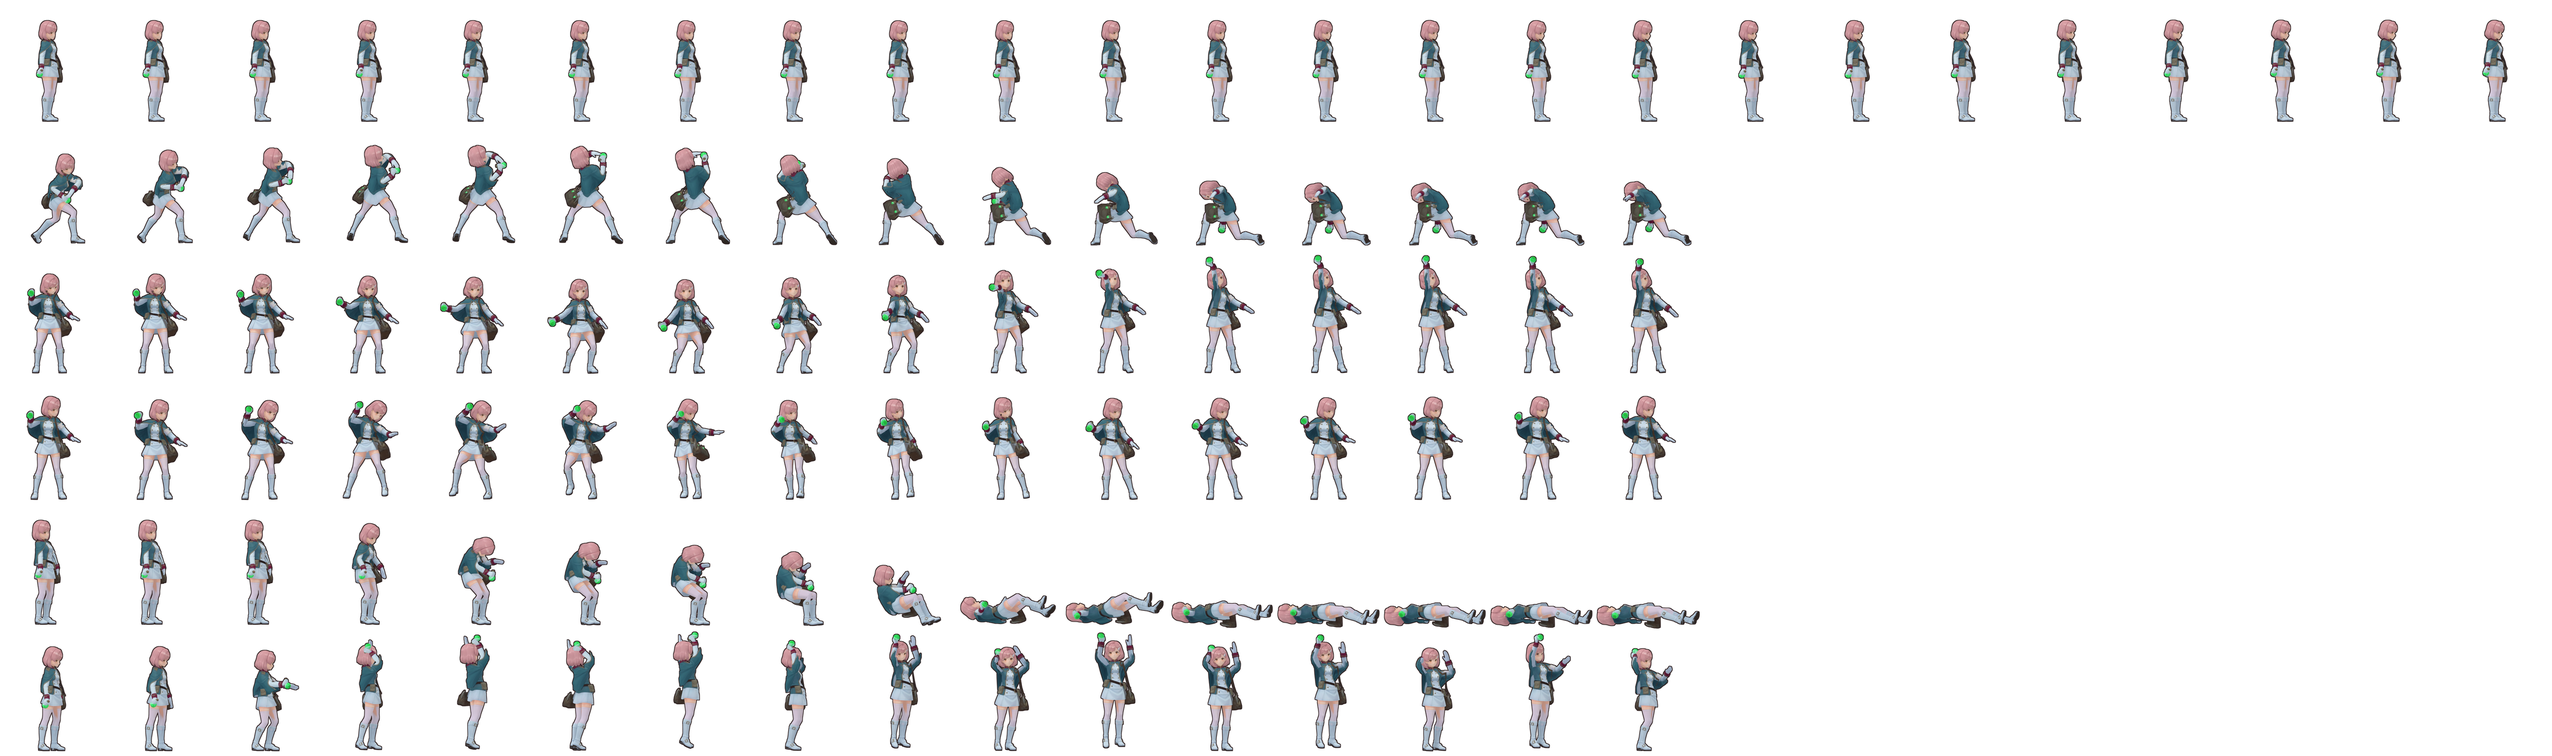
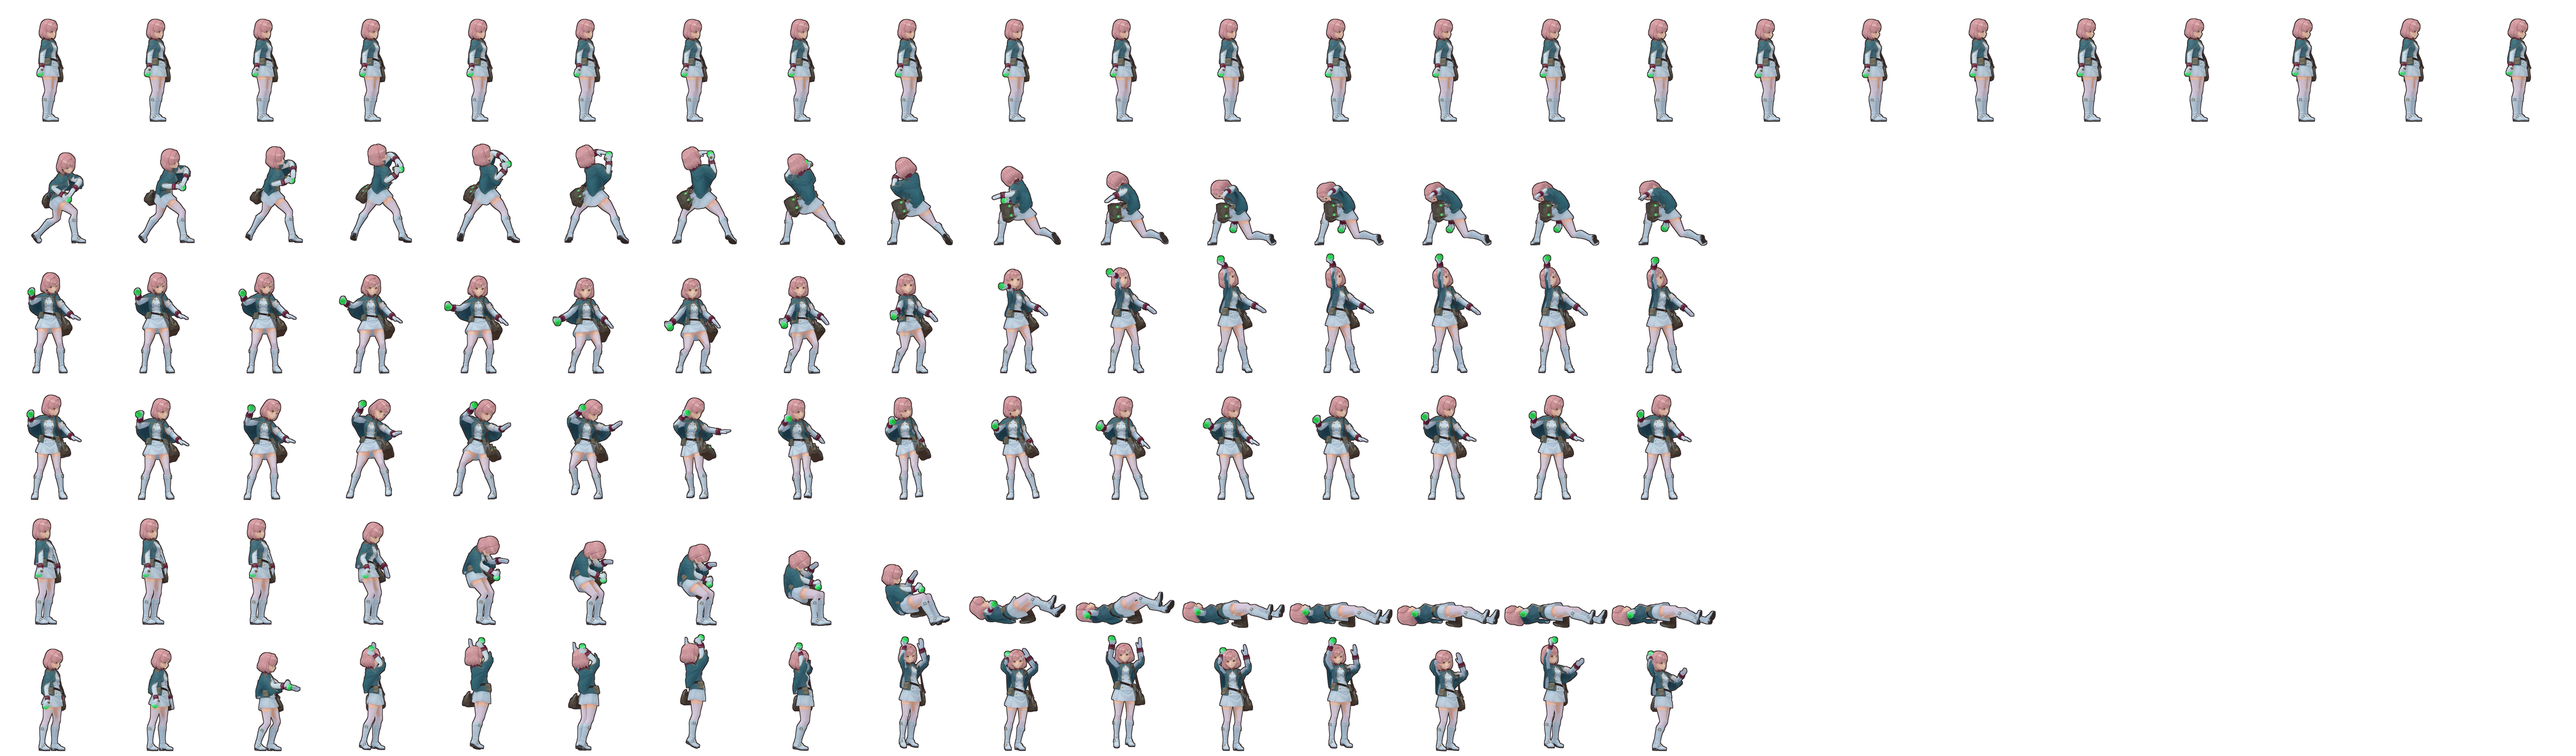
Бой: Рэн — анимированный спрайт из Meshy с двумя саблями
Модель по референсу, сабли — отдельная модель Meshy на костях кистей
(render_sprites.py: режим blade). Клипы: стойка, удар, заряженный удар,
удар по нему, смерть, победа. Клиент Meshy умеет движения Text-to-Motion
(m:<id>); зацикленные клипы играют с настоящей частотой (meta.json).

diff --git a/tools/meshy/render_sprites.py b/tools/meshy/render_sprites.py
@@ -61,7 +61,8 @@ POSES = {
 }
 # Лёгкое покачивание стойки по кадрам: кость → (амплитуда по X, по Y), фаза — доля клипа.
 SWAY = {"Hips": (0.025, 0.0), "Spine01": (-0.02, 0.015), "Head": (0.0, 0.02)}
-PROP_LENGTH = 0.36   # длина оружия, м (при росте модели ~1,6 м — стилизованно крупное)
+PROP_LENGTH = 0.36   # длина пистоля, м (при росте модели ~1,6 м — стилизованно крупный)
+BLADE_LENGTH = 0.95  # длина сабли, м
 SRC = os.path.join(ROOT, "art", "meshy", NAME)
 
 
@@ -150,9 +151,15 @@ def import_clip(action_id):
 AXES = {"x": Vector((1, 0, 0)), "y": Vector((0, 1, 0)), "z": Vector((0, 0, 1))}
 
 
-def attach_prop(arm, path, bone_name, grip_axis):
-    """Предмет в кулак: ствол — вдоль кости кисти (к пальцам), ручка — вдоль оси кости `grip_axis`
-    (x, -x, z, -z). Длинная ось предмета — ствол, ручка — там, где предмет уходит вниз."""
+def hand_axis(rot, name):
+    sign = -1.0 if name.startswith("-") else 1.0
+    return (rot @ AXES[name.lstrip("-")] * sign).normalized()
+
+
+def attach_prop(arm, path, bone_name, grip_axis, long_axis="y", kind="gun"):
+    """Предмет в кулак. Пистоль (kind=gun): ствол — вдоль оси кисти `long_axis` (по умолчанию y, к
+    пальцам), ручка — вдоль `grip_axis`. Клинок (kind=blade): клинок от рукояти к острию — вдоль
+    `long_axis`, лезвие — вдоль `grip_axis`; рукоять — конец с широкой гардой."""
     before = set(bpy.data.objects)
     bpy.ops.import_scene.gltf(filepath=os.path.join(ROOT, path))
     new = [o for o in bpy.data.objects if o not in before]
@@ -169,33 +176,45 @@ def attach_prop(arm, path, bone_name, grip_axis):
     dims = hi - lo
     order = sorted(range(3), key=lambda i: -dims[i])
     long_i, up_i = order[0], order[1]
-    # Ручка — нижняя пятая часть по высоте; её середина по длине — казённая часть.
-    low = [v for v in vs if v[up_i] < lo[up_i] + dims[up_i] * 0.2]
-    grip_at = sum(v[long_i] for v in low) / len(low)
-    mid = (lo[long_i] + hi[long_i]) / 2
-    barrel = Vector((0, 0, 0))
-    barrel[long_i] = -1.0 if grip_at > mid else 1.0
-    down = Vector((0, 0, 0))
-    down[up_i] = -1.0
-    side = barrel.cross(down)
-    # Точка хвата: на ручке, у верха (там кулак).
     grip = Vector((0, 0, 0))
-    grip[long_i] = grip_at
-    grip[up_i] = lo[up_i] + dims[up_i] * 0.55
     grip[order[2]] = (lo[order[2]] + hi[order[2]]) / 2
+    barrel = Vector((0, 0, 0))
+    down = Vector((0, 0, 0))
+    if kind == "blade":
+        # Рукоять — тот конец, где предмет шире (гарда).
+        def width(at_low):
+            band = [v[up_i] for v in vs if (v[long_i] < lo[long_i] + dims[long_i] * 0.15) == at_low
+                    and (at_low or v[long_i] > hi[long_i] - dims[long_i] * 0.15)]
+            return max(band) - min(band) if band else 0.0
+        hilt_low = width(True) >= width(False)
+        barrel[long_i] = 1.0 if hilt_low else -1.0
+        down[up_i] = 1.0
+        grip[long_i] = lo[long_i] + dims[long_i] * 0.06 if hilt_low else hi[long_i] - dims[long_i] * 0.06
+        grip[up_i] = (lo[up_i] + hi[up_i]) / 2
+    else:
+        # Ручка — нижняя пятая часть по высоте; её середина по длине — казённая часть.
+        low = [v for v in vs if v[up_i] < lo[up_i] + dims[up_i] * 0.2]
+        grip_at = sum(v[long_i] for v in low) / len(low)
+        mid = (lo[long_i] + hi[long_i]) / 2
+        barrel[long_i] = -1.0 if grip_at > mid else 1.0
+        down[up_i] = -1.0
+        # Точка хвата: на ручке, у верха (там кулак).
+        grip[long_i] = grip_at
+        grip[up_i] = lo[up_i] + dims[up_i] * 0.55
+    side = barrel.cross(down)
     src = Matrix((barrel, down, side)).transposed().to_4x4()
     src.translation = grip
 
     pb = arm.pose.bones[bone_name]
     bone_world = arm.matrix_world @ pb.matrix
     rot = bone_world.to_3x3().normalized()
-    y = (rot @ Vector((0, 1, 0))).normalized()
-    sign = -1.0 if grip_axis.startswith("-") else 1.0
-    g = (rot @ AXES[grip_axis.lstrip("-")] * sign).normalized()
+    y = hand_axis(rot, long_axis)
+    g = hand_axis(rot, grip_axis)
     g = (g - y * g.dot(y)).normalized()
     dst = Matrix((y, g, y.cross(g))).transposed().to_4x4()
-    dst.translation = bone_world.translation + y * 0.07
-    scale = PROP_LENGTH / dims[long_i]
+    # Кулак — чуть дальше запястья к пальцам.
+    dst.translation = bone_world.translation + hand_axis(rot, "y") * 0.07
+    scale = (BLADE_LENGTH if kind == "blade" else PROP_LENGTH) / dims[long_i]
     prop.matrix_world = dst @ Matrix.Scale(scale, 4) @ src.inverted()
     final = prop.matrix_world.copy()
     prop.parent = arm
@@ -316,8 +335,9 @@ def render_clip(clip, action_id, height):
     reset()
     arm, meshes, action = import_clip(action_id)
     sc = configure(bpy.context.scene)
-    for path, bone, axis in PROPS:
-        attach_prop(arm, path, bone, axis)
+    for spec in PROPS:
+        # файл:кость:ось_ручки[:ось_ствола[:blade]]
+        attach_prop(arm, *spec[:2], spec[2], *(spec[3:5]))
     flatten_materials()
     turn = setup_view(sc, arm, height)
     pelvis = hips(arm)
@@ -349,6 +369,9 @@ def render_clip(clip, action_id, height):
         sc.render.filepath = os.path.join(out, f"{i:04d}.png")
         bpy.ops.render.render(write_still=True)
     fps = sc.render.fps / max(1, (end - start) / max(1, count - 1))
+    # Настоящая частота кадров клипа — упаковщик возьмёт её для зацикленных клипов.
+    with open(os.path.join(out, "meta.json"), "w") as fh:
+        fh.write('{"fps": %.2f}\n' % fps)
     print(f"[render_sprites] {NAME} {clip}: {count} кадров из {start}–{end} (клип {action.frame_range[0]:.0f}–{action.frame_range[1]:.0f}), ~{fps:.1f} к/с", flush=True)
 
 

diff --git a/tools/meshy/meshy.py b/tools/meshy/meshy.py
@@ -139,7 +139,13 @@ def cmd_anim(name, ids):
         if str(action) in anims:
             print(f"{name}: anim {action} уже заказан ({anims[str(action)]})")
             continue
-        tid = request("POST", "v1/animations", {"rig_task_id": t["rig"], "action_id": int(action)})["result"]
+        # m:<id задачи> — движение из Text-to-Motion вместо клипа библиотеки.
+        body = {"rig_task_id": t["rig"]}
+        if str(action).startswith("m:"):
+            body["motion_task_id"] = str(action)[2:]
+        else:
+            body["action_id"] = int(action)
+        tid = request("POST", "v1/animations", body)["result"]
         anims[str(action)] = tid
         save(name, t)   # сразу: задача уже оплачена, номер нельзя потерять
         print(f"{name}: anim {action} {tid}")
@@ -153,7 +159,8 @@ def all_tasks(t):
         if kind in t:
             yield kind, kind, t[kind]
     for action, tid in t.get("anim", {}).items():
-        yield "anim", f"anim_{action}", tid
+        label = "anim_motion_" + action[2:10] if action.startswith("m:") else f"anim_{action}"
+        yield "anim", label, tid
 
 
 def cmd_status(name, wait=False):

diff --git a/tools/meshy/pack_sheets.py b/tools/meshy/pack_sheets.py
@@ -72,7 +72,9 @@ for r, c in enumerate(clips):
         sheet.paste(tile.convert("RGBA"), (i * fw, r * fh))
     meta[c] = {"row": r, "frames": len(frames[c])}
     if c in CLIP_FPS:
-        meta[c]["fps"] = CLIP_FPS[c]
+        # Частота из рендера (meta.json), иначе — запасная из CLIP_FPS.
+        m = src / c / "meta.json"
+        meta[c]["fps"] = round(json.loads(m.read_text())["fps"], 1) if m.exists() else CLIP_FPS[c]
     if c == "idle":
         meta[c]["pingpong"] = True   # отрезок длинного ожидания: туда и обратно, без шва
 

diff --git a/.studioigor/DECISIONS.md b/.studioigor/DECISIONS.md
@@ -47,3 +47,4 @@ decision is not deleted: a new line says "replaces #N".
 | 39 | 2026-11-19 | 6 | Кая: модель Meshy по исходному референсу + пистоли отдельным предметом на кости кисти (art/meshy/pistol), стойка 248 и выстрел 236; Мэй: спокойное ожидание 244; ожидания — отрезок 4 с туда-обратно, без оглядываний | — | user | пользователь: «постоянно оглядываются», персонаж с пистолетами «не очень красивый», просил готовые анимации стрельбы с сайта |
 | 40 | 2026-11-19 | 6 | Кая в ожидании держит пистоли как на образце пользователя: правый поднят стволом вверх, левый у бедра стволом вниз (поза pirate поверх спокойного ожидания 244) | — | user | пользователь прислал образец хвата пистолей |
 | 41 | 2026-11-19 | 6 | стойка Каи как на образце: почти анфас (поворот 15° во всех клипах), вес на одной ноге, бедро в сторону, нога заходит вперёд, пистоль поднят высоко (локоть выше головы), второй у бедра | — | user | пользователь: «более сексуальной и похожей на арт… не совсем боком», поднятая рука выглядела загнутой |
+| 42 | 2026-11-19 | 6 | Рэн — модель Meshy по референсу + две сабли отдельной моделью на кистях (клинок вдоль оси кисти -x), клипы библиотеки: стойка 11, удар 219, заряженный удар 242, победа 101 | — | user | пользователь: «попробуй сделать модель и анимацию того паренька с мечами» |

diff --git a/.studioigor/STATE.md b/.studioigor/STATE.md
@@ -2,10 +2,10 @@
 
 PROJECT: Skybound Corsairs
 PHASE: 6 — Mechanics
-UPDATED: 2026-11-19 22:27
+UPDATED: 2026-11-19 23:18
 
 ## Now
-плейтест; назвать базовую атаку Мэй (сейчас «Скальпель», а она бросает склянку); остальные бойцы через Meshy
+решить по Кае: дизайн героини или Mixamo/видео-мокап для позы
 
 ## Open questions
 - none
@@ -17,3 +17,4 @@ UPDATED: 2026-11-19 22:27
 | 2026-11-18 02:24 | 6 — Mechanics | M06 v3–v4: поле боя с моделями-заглушками и анимациями, HUD как в Zero City; спецатаки по перезарядке вместо очков умений | плейтест перезарядки, затем баланс (всё ещё 100% побед, босс — 71% HP команды в конце) |
 | 2026-11-19 22:00 | 6 — Mechanics | Кая и Мэй — анимированные спрайт-листы из Meshy (tools/meshy: meshy.py, render_sprites.py, pack_sheets.py) | показать пользователю; остальные бойцы тем же путём |
 | 2026-11-19 22:27 | 6 — Mechanics | дальний бой (снаряды, без рывка); Кая и Мэй с оружием (Meshy multi-image) | плейтест; назвать базовую атаку Мэй (сейчас «Скальпель», а она бросает склянку); остальные бойцы через Meshy |
+| 2026-11-19 23:18 | 6 — Mechanics | Рэн с саблями (Meshy); проба Text-to-Motion для позы Каи — не лучше ручной позы | решить по Кае: дизайн героини или Mixamo/видео-мокап для позы |

diff --git a/.studioigor/DESIGN.md b/.studioigor/DESIGN.md
@@ -89,3 +89,4 @@ acceptance criteria · "feel" (targets) · research: research/mech-M01.md -->
 | 2026-11-19 | M06: Кая — исходная модель Meshy с пистолями на кистях (стойка с оружием, выстрел вытянутой рукой), Мэй — спокойное ожидание; ожидание без оглядываний, играет туда и обратно | пользователь: «постоянно оглядываются», Кая «не очень красивая» |
 | 2026-11-19 | M06: ожидание Каи — правый пистоль поднят стволом вверх, левый у бедра стволом вниз (поза рук поверх спокойного клипа) | пользователь: «хочу чтобы пушки она держала вот таким образом» (образец в буфере) |
 | 2026-11-19 | M06: стойка Каи — почти анфас, вес на одной ноге с изгибом корпуса, пистоль поднят высоко, второй у бедра; все клипы Каи с поворотом 15° | пользователь: «хочу как на пикриле», рука выглядела загнутой |
+| 2026-11-19 | M06: Рэн — анимированный спрайт из модели Meshy с двумя саблями (стойка, размашистый удар, заряженный удар, победа с поднятой саблей); ожидания играют с настоящей частотой клипа | пользователь: «сделать модель и анимацию того паренька с мечами» |
